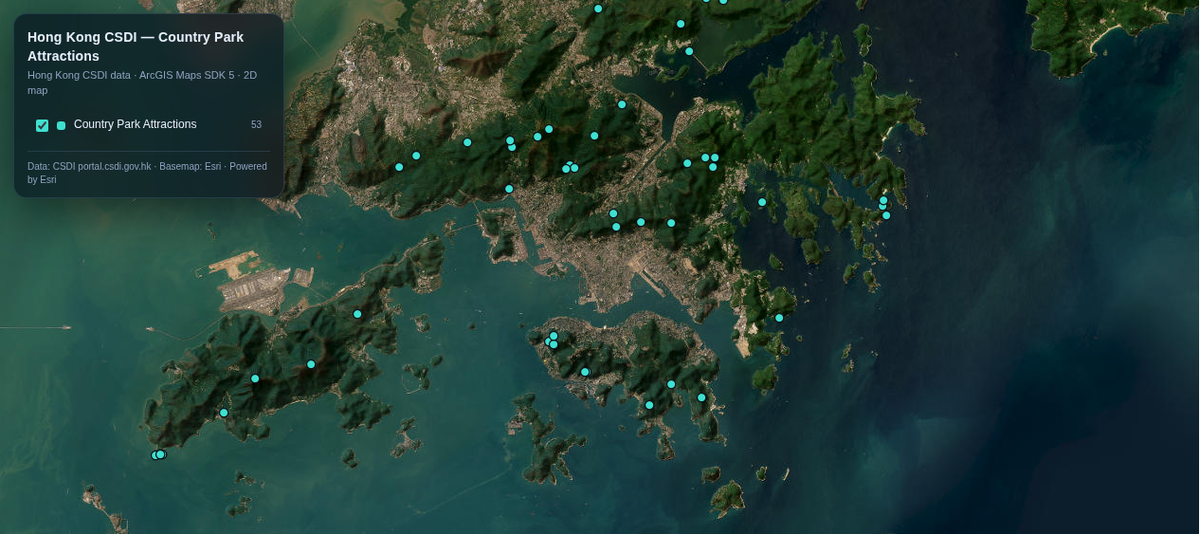
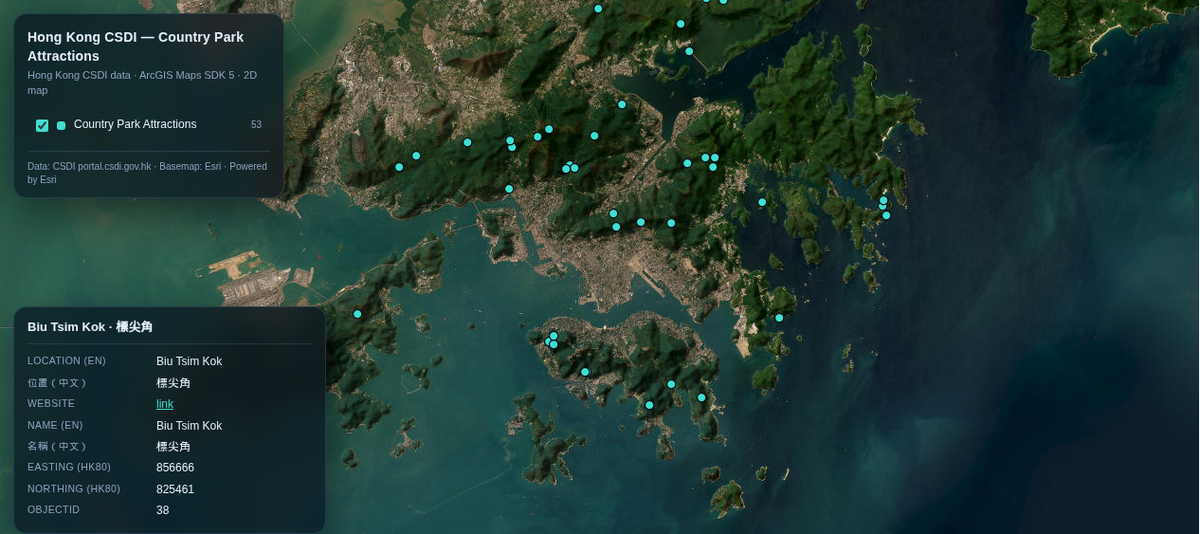
v0.9.0: click a feature to inspect its attributes (SDK 5.0 popup is a beta component, so the page ships its own card), preview shows it

Changed region(s): [[0.0, 0.5693, 0.2775, 1.0]]

diff --git a/hk_spatial_mcp.py b/hk_spatial_mcp.py
@@ -286,8 +286,14 @@ def _build(dataset_ids, title: str, basemap: str, labels: bool, mode: str, page:
         # Every layer is served from disk and referenced by URL. GeoJSONLayer with an inline `blob`
         # fails to load on SDK 5.0 ("Cannot read properties of null (reading 'type')"), and urls keep
         # the HTML small for big layers — one code path, no size threshold.
+        props = (feats[0].get("properties") or {}) if feats else {}
+        fields = [k for k in props if not k.startswith("__")][:20]
+        # a sensible popup title: prefer a name/location label, else the dataset title
+        title_field = next((k for k in fields if k.upper() in
+                            ("NAME_EN", "NAME", "NAME_TC", "TITLE", "FACILITY_NAME", "LOCATION_EN")), "")
         entry = {"id": did, "name": label.read_text(encoding="utf-8") if label.exists() else did,
-                 "url": f"data/{p.name}", "count": len(feats), "gtype": gtype}
+                 "url": f"data/{p.name}", "count": len(feats), "gtype": gtype,
+                 "fields": fields, "title_field": title_field}
         if p.stat().st_size > 60_000_000:  # honest warning, never silently sample the data
             warn.append(f"{did} is {p.stat().st_size // 1_000_000} MB / "
                         f"{len(feats)} features — the browser will be slow; "
@@ -595,6 +601,16 @@ TEMPLATE = r"""<!DOCTYPE html>
   .nm{flex:1;overflow:hidden;text-overflow:ellipsis;white-space:nowrap;font-size:12px}
   .ct{color:var(--dim);font-size:10px;font-variant-numeric:tabular-nums}
   .foot{margin-top:10px;padding-top:9px;border-top:1px solid var(--line);color:var(--dim);font-size:10px}
+  #info{position:absolute;left:14px;bottom:14px;z-index:10;width:330px;max-height:44vh;overflow:auto;
+    background:var(--glass);border:1px solid var(--line);border-radius:14px;padding:12px 14px;
+    backdrop-filter:blur(16px) saturate(150%);box-shadow:0 18px 44px rgba(0,0,0,.45)}
+  #info[hidden]{display:none}
+  #info .ih{font-weight:600;font-size:13px;color:var(--fg);margin-bottom:8px;padding-bottom:7px;
+    border-bottom:1px solid var(--line)}
+  #info .ir{display:flex;gap:10px;padding:2.5px 0}
+  #info .ik{flex:0 0 42%;color:var(--dim);font-size:10.5px;letter-spacing:.04em;text-transform:uppercase;
+    word-break:break-word}
+  #info .iv{flex:1;color:var(--fg);word-break:break-word;font-size:12px}
   .esri-ui .esri-attribution{position:absolute!important;bottom:0!important;right:0!important;
     left:auto!important;top:auto!important;background:rgba(8,11,18,.8)!important;color:var(--dim)!important;
     font-size:10px!important;border-radius:8px 0 0 0;padding:3px 8px!important}
@@ -609,6 +625,7 @@ TEMPLATE = r"""<!DOCTYPE html>
   <div id="layers"></div>
   <div class="foot">Data: CSDI portal.csdi.gov.hk · Basemap: Esri · Powered by Esri</div>
 </div>
+<div id="info" hidden></div>
 <script type="module">
 import Map from "https://js.arcgis.com/5.0/@arcgis/core/Map.js";
 import MapView from "https://js.arcgis.com/5.0/@arcgis/core/views/MapView.js";
@@ -644,6 +661,33 @@ const view = MODE === "3d"
   : new MapView({ container: "view", map, center: HK, zoom: 11 });
 window.__view = view;  // exposed for tests/debugging
 view.when(() => { window.__readyMs = Math.round(performance.now()); }).catch(() => {});
+
+// click a feature -> attribute card (bottom left)
+const info = document.getElementById("info");
+const PRETTY = { NAME_EN: "Name (EN)", NAME_TC: "名稱（中文）", LOCATION_EN: "Location (EN)",
+                 LOCATION_TC: "位置（中文）", WEBSITE: "Website", EASTING: "Easting (HK80)",
+                 NORTHING: "Northing (HK80)" };
+view.on("click", async (event) => {
+  try {
+    const hit = (await view.hitTest(event)).results.find(r => r.graphic && r.graphic.layer);
+    if (!hit) { info.hidden = true; return; }
+    const a = hit.graphic.attributes || {};
+    const rows = Object.keys(a)
+      .filter(k => !k.startsWith("__") && a[k] !== null && a[k] !== "")
+      .slice(0, 24)
+      .map(k => {
+        const label = PRETTY[k] || k;
+        const v = /^https?:\/\//.test(String(a[k]))
+          ? `<a href="${a[k]}" target="_blank" rel="noopener" style="color:#3fe0d0">link</a>`
+          : String(a[k]);
+        return `<div class="ir"><span class="ik">${label}</span><span class="iv">${v}</span></div>`;
+      }).join("");
+    const heading = a.NAME_TC && a.NAME_EN ? `${a.NAME_EN} · ${a.NAME_TC}` : (hit.graphic.layer.title || "");
+    info.innerHTML = `<div class="ih">${heading}</div>${rows}`;
+    info.hidden = false;
+    window.__info = a;  // exposed for tests
+  } catch (e) { info.hidden = true; }
+});
 const box = document.getElementById("layers");
 
 LAYERS.forEach((L, i) => {
@@ -657,7 +701,10 @@ LAYERS.forEach((L, i) => {
       ? { type: "simple-line", color, width: 2 }
       : { type: "simple-fill", color: [...hex(color), 0.35],
           outline: { color, width: 1.2 } };
-  const opts = { title: L.name || L.id, url: L.url, popupEnabled: true, outFields: ["*"],
+  // ponytail: no SDK popup. In 5.0 the popup UI is a beta component that a programmatic View does
+  // not inject, and popupEnabled alone opens nothing. One click handler + one card is smaller,
+  // version-proof, and looks intentional.
+  const opts = { title: L.name || L.id, url: L.url, popupEnabled: false, outFields: ["*"],
                  renderer: { type: "simple", symbol } };
   // in 3D, drape lines and polygons onto the terrain instead of floating at sea level
   if (MODE === "3d" && !isPoint) opts.elevationInfo = { mode: "on-the-ground" };

diff --git a/README.md b/README.md
@@ -45,6 +45,7 @@ portal's data-export conventions.
 | **Catalogue search** | All 1,154 CSDI datasets, indexed locally and relevance-ranked. English, 繁體中文 and 简体中文 queries supported. |
 | **Data retrieval** | Any dataset as GeoJSON in EPSG:4326, returned as a summary (feature count, geometry types, attribute fields, bounding box) rather than a raw feature dump. |
 | **Map rendering** | One or many datasets rendered as an interactive **2D map** or **3D scene** (ArcGIS Maps SDK for JavaScript, keyless public basemap; 3D adds Terrain3D relief), served on `localhost`. |
+| **Feature inspection** | Click any feature to open an attribute card — every field from the dataset, bilingual column names where CSDI provides them, URLs rendered as links. |
 | **Geocoding and geometry** | Address ↔ coordinate (both directions), project / buffer / simplify on any GeoJSON geometry, ground elevation, via Esri's public services. No key required. |
 | **Basemaps** | 11 keyless Esri basemap styles (imagery, topographic, streets, light/dark gray, terrain, hillshade, ocean, physical, natgeo, shaded relief) plus an optional labels overlay. |
 | **Static map export** | Render a basemap PNG (no key) into the workspace for reports and decks. |
@@ -275,6 +276,11 @@ features are streamed from the served file rather than inlined into the page.
 `terrain`, `hillshade`, `ocean`, `physical`, `natgeo`, `shaded-relief`. `labels=True` adds Esri's
 boundaries-and-places reference overlay on top.
 
+**Clicking a feature** opens an attribute card in the bottom-left corner of the page: every attribute field
+of that feature, `NAME_TC` / `LOCATION_TC` shown next to the English columns, and any URL rendered as a
+link. The field labels come from the dataset itself, so nothing is hard-coded per dataset. Multi-layer maps
+work the same way — whichever layer the click hits wins.
+
 ### `build_scene(dataset_ids, title="Hong Kong Spatial Data", basemap="imagery", labels=False, tilt=60)`
 
 Same datasets as `build_map`, rendered in a **3D scene** served at `scene.html`: Terrain3D ground,
@@ -437,6 +443,15 @@ The model-facing cost is small by design: a full search → load → build_map f
 2,600 characters of JSON, so the agent does not need long reasoning to produce a map.
 
 ## Design notes
+
+- **No SDK popup.** On Maps SDK 5.0 a programmatically created `MapView` does not inject the popup UI —
+  the popup is a beta web component (`<arcgis-popup>`) and `popupEnabled` on its own opens nothing. Rather
+  than pull in a beta component, the template ships one `view.on("click")` handler and one styled card.
+  Predictable across SDK releases, and it matches the rest of the UI.
+- **Every layer is served by URL.** `GeoJSONLayer` with an inline `data` property (and with `blob`)
+  fails to load on 5.0 — `TypeError: Cannot read properties of null (reading 'type')`. All layers are
+  written to `data/<dataset>.geojson` and referenced by URL, so there is one code path and the HTML stays
+  small.
 
 - **Why a local index.** The catalogue service's `AnyText` query is high-recall but low-precision
   (a Chinese query such as 廁所 returns 185 hits with irrelevant ranking). Indexing the full catalogue
